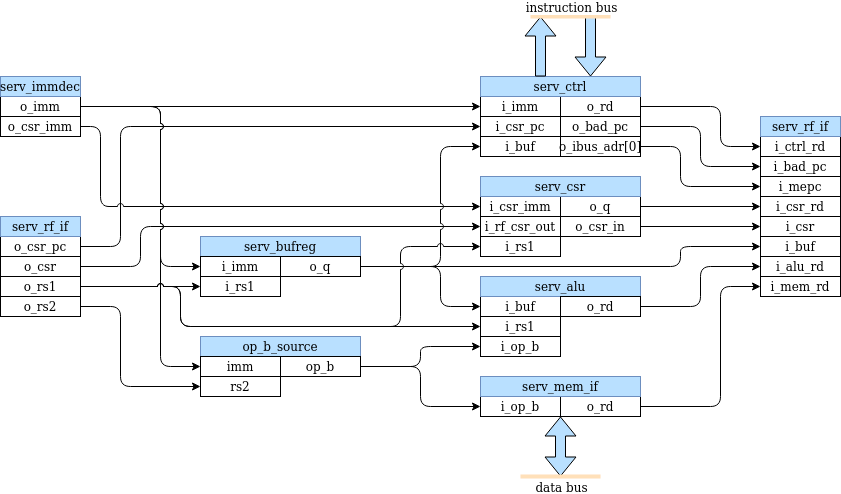
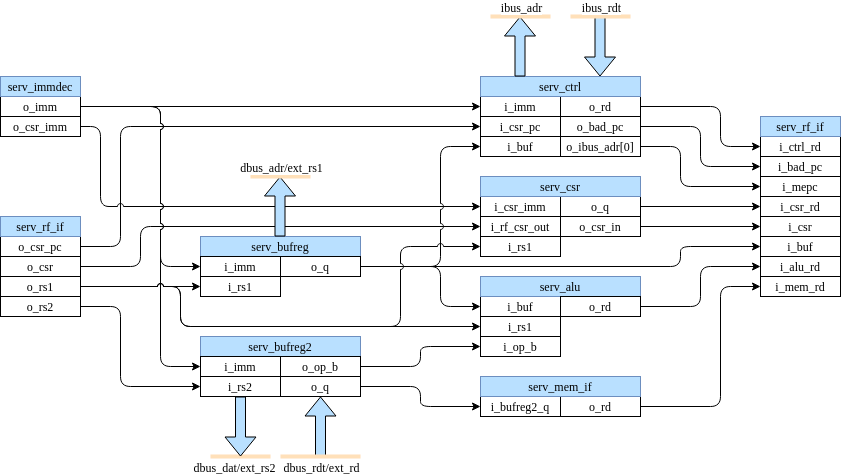
Move dbus_dat/rs2/shamt storage to bufreg2

Changed region(s): [[0.0, 0.2363, 1.0, 1.0], [0.0, 0.0, 0.8656, 0.3249]]

diff --git a/doc/index.rst b/doc/index.rst
@@ -53,6 +53,15 @@ For two-stage operations, serv_bufreg holds data between stages. This data can b
 
 .. image:: serv_bufreg_int.png
 
+serv_bufreg2
+^^^^^^^^^^^^
+
+.. image:: serv_bufreg2.png
+
+serv_bugreg2 is a 32-bit buffer register with some special features. It is used for shift operations to store the shift amount. It's used in load and store operations to store the data to be written or be read from the data bus, and it holds rs2 for the SERV extension interface. For shift and store operations, the register is shifted in from MSB when dat_en is asserted, while for loads and uses of the extension interface, the whole data word is written to when the i_load signal is asserted. Once the data is in the buffer, it is used differently depending on the operation. For stores and the extension interface the whole buffer is directly connected to the data bus as a 32-bit register. For load operations, the data is fed out serially once it has been fetched from the data bus. To better support load operations of varying sizes the buffer contains logic for reading out data serially from any of the byte LSBs of the 32-bit word. Finally, in shift mode, the 6 LSB of the register is used as a downcounter that is initialized during the init stage and then counts the remaining number of steps to shift the data and signals using sh_done and sh_done_r when finished.
+
+.. image:: serv_bufreg2_int.png
+
 serv_csr
 ^^^^^^^^
 
@@ -101,15 +110,13 @@ serv_mem_if
 
 .. image:: serv_mem_if.png
 
-serv_mem_if prepares the data to be sent out on the dbus during store operations and serializes the incoming data during loads
+serv_mem_if contains the control logic for preparing the data to be sent out on the dbus during store operations and sign-extends the incoming data from bufreg2 during loads
 
-The memory interface is centered around four byte-wide shift registers connected in series. During store operations, the `dat_en` signal is asserted long enough to shift in the data from rs2 to the right place in the shift registers and the parallel output of the shift registers is then presented to the data bus as a 32-bit word together with a byte mask. The `Data bus byte mask`_ table summarizes the logic for when the individual byte select signals are asserted depending on the two LSB of the data address together with the size (byte, halfword, word) of the write operation.
+The memory interface is centered around four serially connected byte-wide shift registers located in serv_bufreg2. During store operations, the `o_byte_valid` signal is asserted long enough to shift in the data from rs2 to the right place in the shift registers. The `Data bus byte mask`_ table summarizes the logic for when the individual byte select signals are asserted depending on the two LSB of the data address together with the size (byte, halfword, word) of the write operation.
 
-During load operations, the data from the bus is latched into the shift registers. `dat_en` is again asserted to shift out data from the registers. `i_lsb` decides from which byte stage of the shift register to tap the data, depending on the alignment of the received data. The `dat_valid` signal makes sure to only present valid data to `o_rd` and otherwise fill in with zeros or sign extension.
+During load operations, the data from the bus is read from serv_bufreg2. `dat_en` is again asserted to shift out data from the registers. `i_lsb` decides from which byte stage of the shift register to tap the data, depending on the alignment of the received data. The `dat_valid` signal makes sure to only present valid data to `o_rd` and otherwise fill in with zeros or sign extension.
 
 When SERV is built with `WITH_CSR`, there is also logic to detect misaligned accesses which asserts the o_misalign flag to the core.
-
-The shift register used for stores and loads are also used to keep track of the number of steps to shift for left/right shift operations. In this mode, the six LSB of the register is loaded with the shift amount during the init stage and the used as a down counter which raises o_sh_done and o_sh_done_r when the number of shift steps have been completed.
 
 .. image:: serv_mem_if_int.png
 